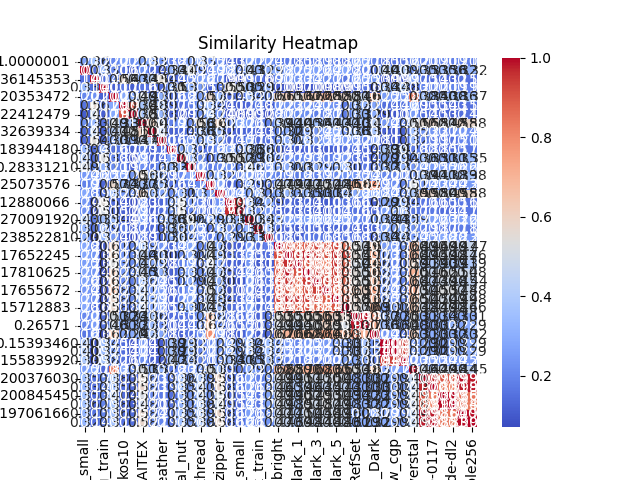
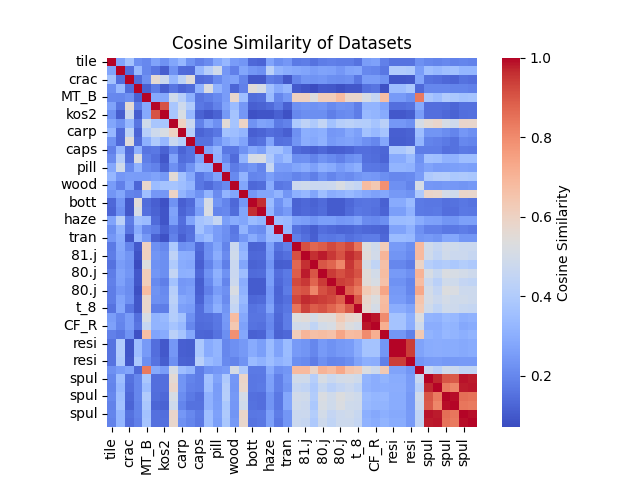
Rearrange heatmap plot

diff --git a/src/plotting.py b/src/plotting.py
@@ -15,7 +15,7 @@ def plot_similarity_heatmap(file_path):
     similarity_df = None
     try:
         with open(file_path, 'r', encoding='utf-8') as f:
-            similarity_df = pd.read_csv(f, index_col=0)
+            similarity_df = pd.read_csv(file_path, index_col=0).dropna(axis=1, how="all")
         print("Similarity matrix loaded successfully.")
     except FileNotFoundError:
         print(f"Error: File not found at {file_path}")
@@ -23,71 +23,77 @@ def plot_similarity_heatmap(file_path):
         print(f"An error occurred: {e}")
 
     if similarity_df is not None:
-        sns.heatmap(similarity_df, annot=True, fmt=".2f", cmap="coolwarm")
-        plt.title("Similarity Heatmap")
+        # --- Step 2: Shorten labels to max 4 letters ---
+        short_labels = [name[:4] for name in similarity_df.index]
+        similarity_df.index = short_labels
+        similarity_df.columns = short_labels
+
+        # --- Step 3: Plot heatmap without annotations ---
+        sns.heatmap(similarity_df, annot=False, cmap="coolwarm", square=True,
+                    cbar_kws={"label": "Cosine Similarity"})
+        plt.title("Cosine Similarity of Datasets")
         plt.savefig(file_path.replace('.csv', '_heatmap.png'))
         plt.show()
     else:
         raise ValueError("No similarity data to plot.")
 
 
-def show_similarity_results():
-    result_dir = os.path.join(RESULTS_PATH)
-
-    csv_files = [file for file in os.listdir(result_dir) if file.endswith(".csv")]
-
-    for file in csv_files:
-        with open(os.path.join(result_dir, file), 'r', encoding='utf-8') as f:
-            idx = 0
-            for line in f:
-                if idx == 0:
-                    cells = line.strip().split(',')
-                    print("\\begin{table}[h]")
-                    print("\centering")
-                    print("\caption{Dataset ID and Descriptions}")
-                    print("\label{tab:dataset_description}")
-                    print("\\resizebox{0.5\columnwidth}{!}{%")
-                    print("\\begin{tabular}{cc}")
-                    print("\hline")
-                    print("ID & Dataset Name \\\\")
-                    print("\hline")
-                    cdx = 1
-                    header = ""
-                    for c in cells:
+def show_similarity_results(file_path):
+    with open(file_path, 'r', encoding='utf-8') as f:
+        idx = 0
+        for line in f:
+            if idx == 0:
+                cells = line.strip().split(',')
+                print("\\begin{table}[h]")
+                print("\centering")
+                print("\caption{Dataset ID and Descriptions}")
+                print("\label{tab:dataset_description}")
+                print("\\resizebox{0.5\columnwidth}{!}{%")
+                print("\\begin{tabular}{cc}")
+                print("\hline")
+                print("ID & Dataset Name \\\\")
+                print("\hline")
+                cdx = 1
+                header = ""
+                for c in cells:
+                    if c != '':
                         c = c.replace('_', '\\_')
                         print(f"{cdx} & {c} \\\\")
                         if cdx == 1:
                             header = f"{cdx} "
                         else:
                             header += f"& {cdx} "
-                        cdx += 1
-                    header += " \\\\"
-                    print("\hline")
-                    print("\end{tabular}%")
-                    print("}")
-                    print("\end{table}")
+                    cdx += 1
+                header += " \\\\"
+                print("\hline")
+                print("\end{tabular}%")
+                print("}")
+                print("\end{table}")
 
-                    print("\\begin{table*}[t]")
-                    print("\centering")
-                    print("\caption{Cosine Similarity between all datasets}")
-                    print("\label{tab:similarity-matrix}")
-                    print("\\resizebox{2.0\columnwidth}{!}{%")
-                    header_format = "c" * len(cells)
-                    print("\\begin{tabular}{" + header_format + "}")
-                    print("\hline")
-                    print(header)
-                    print("\hline")
-                else:
-                    cells = line.strip().split(',')
-                    values = []
-                    for cell in cells:
+                print("\\begin{table*}[t]")
+                print("\centering")
+                print("\caption{Cosine Similarity between all datasets}")
+                print("\label{tab:similarity-matrix}")
+                print("\\resizebox{2.0\columnwidth}{!}{%")
+                header_format = "c" * len(cells)
+                print("\\begin{tabular}{" + header_format + "}")
+                print("\hline")
+                print(header)
+                print("\hline")
+            else:
+                cells = line.strip().split(',')
+                values = []
+                for cell in cells:
+                    try:
                         value = float(cell)
                         values.append(f"{value:.2f}")
-                    latex_line = " & ".join(values) + " \\\\"
-                    print(latex_line)
+                    except:
+                        continue
+                latex_line = " & ".join(values) + " \\\\"
+                print(latex_line)
 
-                idx += 1
-            print("\hline")
-            print("\end{tabular}%")
-            print("}")
-            print("\end{table}")
+            idx += 1
+        print("\hline")
+        print("\end{tabular}%")
+        print("}")
+        print("\end{table}")

diff --git a/main.py b/main.py
@@ -47,7 +47,13 @@ def main():
 
         if selection == 2:
             print("[2] Showing similarity results ...")
-            show_similarity_results()
+            result_dir = os.path.join(RESULTS_PATH)
+
+            csv_files = [file for file in os.listdir(result_dir) if file.endswith(".csv")]
+
+            for file in csv_files:
+                show_similarity_results(os.path.join(result_dir, file))
+                plot_similarity_heatmap(os.path.join(result_dir, file))
 
         if selection == 3:
             # ------------------------------------------------
